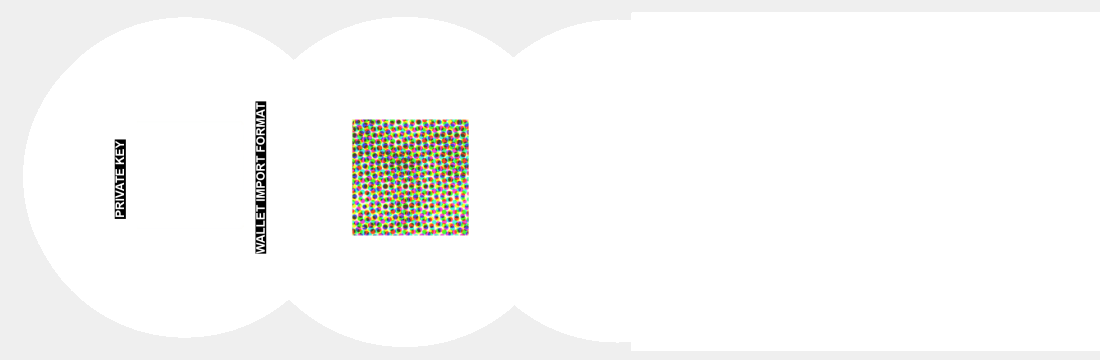
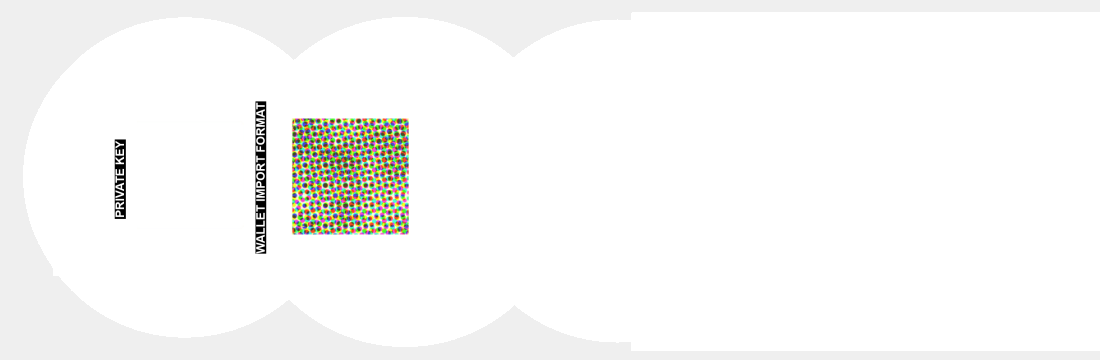
frame fixes instruction text

Changed region(s): [[0.2473, 0.3056, 0.4327, 0.6722]]

diff --git a/css/style.css b/css/style.css
@@ -32,6 +32,8 @@
 		margin: 0px;
 		padding: 0px;
 		zoom: 0.81;
+		-moz-transform-origin: left top;
+		-moz-transform: scale(0.81);
 	}
 	.inner
 	{
@@ -58,6 +60,8 @@
 		float: left !important;
 		background-color: white !important;
 		zoom: 1.00 !important;
+		-moz-transform-origin: left top;
+		-moz-transform: scale(1.00) !important;	
 		height: auto !important;
 		border: none !important;
 		max-width: auto !important;
@@ -73,22 +77,32 @@
 	.coin-wallet.zoom-90
 	{
 		zoom: 0.90 !important;
+		-moz-transform-origin: left top;
+		-moz-transform: scale(0.90)  !important;
 	}
 	.coin-wallet.zoom-95
 	{
 		zoom: 0.95 !important;
+		-moz-transform-origin: left top;
+		-moz-transform: scale(0.95)  !important;
 	}
 	.coin-wallet.zoom-100
 	{
 		zoom: 1.00 !important;
+		-moz-transform-origin: left top;
+		-moz-transform: scale(1.00)  !important;
 	}
 	.coin-wallet.zoom-105
 	{
 		zoom: 1.05 !important;
+		-moz-transform-origin: left top;
+		-moz-transform: scale(1.05)  !important;
 	}
 	.coin-wallet.zoom-110
 	{
 		zoom: 1.10 !important;
+		-moz-transform-origin: left top;
+		-moz-transform: scale(1.10)  !important;
 	}
 	body
 	{
@@ -1669,22 +1683,32 @@ ul#coin-setup-menu li.active{
 .zoom-90 .coin-wallet
 {
 	zoom: 0.90;
+	-moz-transform-origin: left top;
+	-moz-transform: scale(0.90);
 }
 .zoom-95 .coin-wallet
 {
 	zoom: 0.95;
+	-moz-transform-origin: left top;
+	-moz-transform: scale(0.95);
 }
 .zoom-100 .coin-wallet
 {
 	zoom: 1.00;
+	-moz-transform-origin: left top;
+	-moz-transform: scale(1.00);
 }
 .zoom-105 .coin-wallet
 {
 	zoom: 1.05;
+	-moz-transform-origin: left top;
+	-moz-transform: scale(1.05);
 }
 .zoom-110 .coin-wallet
 {
 	zoom: 1.10;
+	-moz-transform-origin: left top;
+	-moz-transform: scale(1.10);
 }
 
 #print-button
@@ -1706,6 +1730,8 @@ overflow: visible;
 .coin-wallets
 {
 zoom: 65%;
+-moz-transform-origin: left top;
+-moz-transform: scale(0.65);
 border: 1px dashed;
 border-radius: 16px;
 float: left;
@@ -2104,7 +2130,6 @@ margin-top: 5px;
 	font-size: 37px;
 	padding-top: 20px;
 }
-
 .trust-items
 {
 	width: 830px;
@@ -2702,4 +2727,11 @@ float: right;
 margin-top: 27px;
 margin-right: 11px;
 width: 123px;
+}
+
+.print-instructions
+{
+float: right;
+position: relative;
+width: 36%;
 }

diff --git a/css/style-frames.css b/css/style-frames.css
@@ -116,6 +116,8 @@
   left: 310px;
   top: 124px;
   zoom: 112%;
+  -moz-transform-origin: left top;
+  -moz-transform: scale(1.12) !important;
 }
 .frame-1.back .coin-wallet .wallet-frame {
   background-image: url('../images/wallet-frames/Frame-1-Back.png');
@@ -146,6 +148,8 @@
   left: 748px;
   top: 127px;
   zoom: 112%;
+  -moz-transform-origin: left top;
+  -moz-transform: scale(1.12) !important;
 }
 .frame-2 .coin-wallet .coin-wallet-private-key-qr canvas {
   padding: 7px;
@@ -231,6 +235,8 @@
   left: 768px;
   top: 131px;
   zoom: 112%;
+  -moz-transform-origin: left top;
+  -moz-transform: scale(1.12) !important;
 }
 .frame-3.back .coin-wallet .cryptopapers-logo {
   display: none;
@@ -243,7 +249,7 @@
   float: left;
   padding-top: 76px;
   padding-left: initial;
-  left: 60px;
+  left: 43px;
   position: relative;
 }
 .frame-3.back .coin-wallet .coin-wallet-right canvas {
@@ -261,8 +267,8 @@
   margin-bottom: 5px;
 }
 .frame-3.back .coin-logo {
-  top: 75px;
-  left: 498px;
+  top: 72px;
+  left: 469px;
   background-size: 100%;
   width: 220px;
   height: 220px;
@@ -293,7 +299,10 @@
 }
 .frame-4 .coin-wallet .coin-logo {
   top: 95px;
-  left: 288px;
+  left: 278px;
+}
+.frame-4 .coin-wallet .cryptopapers-logo {
+  left: 249px;
 }
 .frame-4.back .coin-wallet .wallet-frame {
   background-image: url('../images/wallet-frames/Frame-4-Back.png');
@@ -303,6 +312,8 @@
   left: 170px;
   top: 124px;
   zoom: 112%;
+  -moz-transform-origin: left top;
+  -moz-transform: scale(1.12) !important;
 }
 .frame-4.back .coin-logo {
   top: 63px;
@@ -330,6 +341,9 @@
   padding-top: 45px;
   width: 185px;
 }
+.frame-5 .coin-wallet .coin-wallet-private-key {
+  font-size: 8pt;
+}
 .frame-5 .coin-wallet .coin-wallet-address-qr {
   margin-top: 44px;
   margin-left: 54px;
@@ -355,6 +369,8 @@
   left: 194px;
   top: 135px;
   zoom: 112%;
+  -moz-transform-origin: left top;
+  -moz-transform: scale(1.12) !important;
 }
 .frame-5.back .coin-wallet .wallet-frame {
   background-image: url('../images/wallet-frames/Frame-5-Back.png');

diff --git a/css/style-frames.less b/css/style-frames.less
@@ -164,6 +164,8 @@
 		left: 310px;
 		top: 124px;
 		zoom: 112%;
+		-moz-transform-origin: left top;
+		-moz-transform: scale(1.12)  !important;
 		}
 		.coin-wallet
 		{
@@ -213,6 +215,8 @@
 		left: 748px;
 		top: 127px;
 		zoom: 112%;
+		-moz-transform-origin: left top;
+		-moz-transform: scale(1.12)  !important;
 		}
 		.coin-wallet-private-key-qr
 		{
@@ -331,6 +335,8 @@
 		left: 768px;
 		top: 131px;
 		zoom: 112%;
+		-moz-transform-origin: left top;
+		-moz-transform: scale(1.12)  !important;
 		}
 	}
 	
@@ -353,7 +359,7 @@
 				float: left;
 				padding-top: 76px;
 				padding-left: initial;
-				left: 60px;
+				left: 43px;
 				position: relative;
 				
 				canvas
@@ -377,8 +383,8 @@
 		}
 		.coin-logo
 		{
-			top: 75px;
-			left: 498px;
+			top: 72px;
+			left: 469px;
 			background-size: 100%;
 			width: 220px;
 			height: 220px;
@@ -424,7 +430,11 @@
 		.coin-logo
 		{
 			top: 95px;
-			left: 288px;
+			left: 278px;
+		}
+		.cryptopapers-logo
+		{
+			left: 249px;
 		}
 	}
 	
@@ -444,6 +454,8 @@
 		left: 170px;
 		top: 124px;
 		zoom: 112%;
+		-moz-transform-origin: left top;
+		-moz-transform: scale(1.12)  !important;
 		}
 		.coin-logo
 		{
@@ -486,6 +498,10 @@
 			padding-top: 45px;
 			width: 185px;
 		}
+		.coin-wallet-private-key
+		{
+			font-size: 8pt;
+		}
 		.coin-wallet-address-qr
 		{
 			margin-top: 44px;
@@ -526,6 +542,8 @@
 			left: 194px;
 			top: 135px;
 			zoom: 112%;
+			-moz-transform-origin: left top;
+			-moz-transform: scale(1.12)  !important;
 			}
 			.wallet-frame
 			{

diff --git a/js/cryptopapers-prng.js b/js/cryptopapers-prng.js
@@ -86,21 +86,21 @@ function InitRNG()
 					$(this).css({'position':'static', 'display':'none'});
 					$('.sub-section.coin-setup-keys').animate({'margin-top':'0'}, 500);
 				});
-				}		
-				
-			if (!HasPrivateKey)
-				{
-				$('.generate-button').removeAttr('disabled').addClass('enabled');
-				
-				if ($('#private-key-input').val() == '' && WhenEntropyPoolFills_AutoGenerateKeys)
+					
+				if (!HasPrivateKey)
 					{
-					$('#private-key-generate').click();
-					if (WhenEntropyPoolFills_GoToPrint)
+					$('.generate-button').removeAttr('disabled').addClass('enabled');
+					
+					if ($('#private-key-input').val() == '' && WhenEntropyPoolFills_AutoGenerateKeys)
 						{
-						$('#coin-setup-menu #print').click();
+						$('#private-key-generate').click();
+						if (WhenEntropyPoolFills_GoToPrint)
+							{
+							$('#coin-setup-menu #print').click();
+							}
 						}
 					}
-				}
+				}				
 			}
 		});
 	}

diff --git a/js/cryptopapers-ui.js b/js/cryptopapers-ui.js
@@ -49,13 +49,20 @@ function InitDismissable()
 	$('.dismissable .close-button').click(function() {
 		$(this).parent().animate({opacity: '0'}, 300, function() {
 			$(this).hide();
+			//$('.sub-section.coin-setup-print').animate({'margin-top': '0px'}, 500);
+		});
+	});
+	$('.dismissable.warning.beta-software .close-button').click(function() {
+		$(this).parent().animate({opacity: '0'}, 300, function() {
+			$(this).hide();
 			$('.sub-section.coin-setup-print').animate({'margin-top': '0px'}, 500);
 		});
+	});
 
 		
-	});
 	
 	}
+	
 function InitDonate()
 	{
 	$(".donate-reminder, .donate-reminder *").click(function() 

diff --git a/index.html b/index.html
@@ -1122,6 +1122,12 @@ $().ready(function ()
 					</div>
 				</div>
 				
+				<div class="instructions dismissable no-print print-instructions">
+						<p>
+						Make sure to print in Landscape more, as well as enable Background Images in your Print Settings!
+						</p>
+				</div>
+				
 				<div class="frame-instructions round-block">
 					<h3>Frame Instructions</h3>
 					
